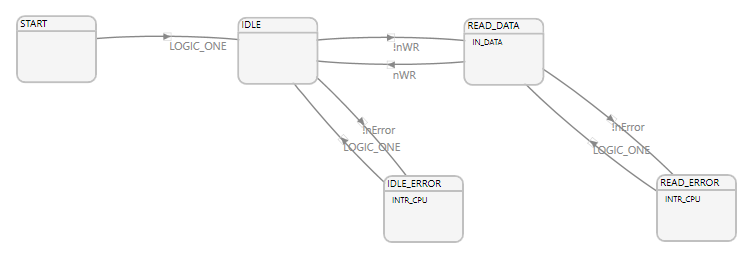
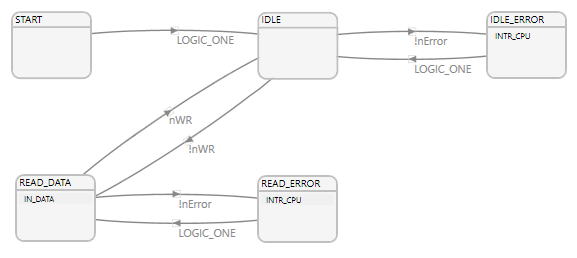
Modified GPIF II state-machine for double buffing of DMA

diff --git a/FX3-Firmware/domesdayDuplicator/domesdayDuplicatorGpif.h b/FX3-Firmware/domesdayDuplicator/domesdayDuplicatorGpif.h
@@ -1,6 +1,6 @@
 /*
  * Project Name: DomesdayDuplicator.cyfx
- * Time : 12/03/2017 08:53:38
+ * Time : 12/03/2017 12:20:00
  * Device Type: FX3
  * Project Type: GPIF2
  *
@@ -28,9 +28,9 @@
  */
 #define START 0
 #define IDLE 1
-#define READ_DATA 2
+#define IDLE_ERROR 2
+#define READ_DATA 3
 #define READ_ERROR 4
-#define IDLE_ERROR 3
 
 
 /* Summary
@@ -43,7 +43,7 @@
    Transition function values used in the state machine.
  */
 uint16_t CyFxGpifTransition[]  = {
-    0x0000, 0x5555, 0xAAAA, 0xFFFF, 0x3333
+    0x0000, 0xFFFF, 0x3333, 0x5555, 0xAAAA
 };
 
 /* Summary
@@ -53,25 +53,25 @@ uint16_t CyFxGpifTransition[]  = {
    waveform table. 
  */
 CyU3PGpifWaveData CyFxGpifWavedata[]  = {
-    {{0x1E708001,0x00000108,0x80000000},{0x00000000,0x00000000,0x00000000}},
-    {{0x2E708002,0x20000008,0x80000000},{0x3E739C03,0x00000000,0xC0000100}},
-    {{0x1E708001,0x00000108,0x80000000},{0x3E739C04,0x00000100,0xC0000100}},
-    {{0x2E708002,0x20000008,0x80000000},{0x00000000,0x00000000,0x00000000}}
+    {{0x3E700401,0x00010004,0x80000000},{0x00000000,0x00000000,0x00000000}},
+    {{0x1E739C02,0x00000000,0xC0000100},{0x2E708003,0x20000008,0x80000000}},
+    {{0x1E739C04,0x00000100,0xC0000100},{0x3E700401,0x00010004,0x80000000}},
+    {{0x2E708003,0x20000008,0x80000000},{0x00000000,0x00000000,0x00000000}}
 };
 
 /* Summary
    Table that maps state indices to the descriptor table indices.
  */
 uint8_t CyFxGpifWavedataPosition[]  = {
-    0,1,2,0,3
+    0,1,0,2,3
 };
 
 /* Summary
    GPIF II configuration register values.
  */
 uint32_t CyFxGpifRegValue[]  = {
-    0x80008300,  /*  CY_U3P_PIB_GPIF_CONFIG */
-    0x00000067,  /*  CY_U3P_PIB_GPIF_BUS_CONFIG */
+    0x80000300,  /*  CY_U3P_PIB_GPIF_CONFIG */
+    0x00000087,  /*  CY_U3P_PIB_GPIF_BUS_CONFIG */
     0x00000000,  /*  CY_U3P_PIB_GPIF_BUS_CONFIG2 */
     0x00000046,  /*  CY_U3P_PIB_GPIF_AD_CONFIG */
     0x00000000,  /*  CY_U3P_PIB_GPIF_STATUS */
@@ -79,9 +79,9 @@ uint32_t CyFxGpifRegValue[]  = {
     0x00000002,  /*  CY_U3P_PIB_GPIF_INTR_MASK */
     0x00000082,  /*  CY_U3P_PIB_GPIF_SERIAL_IN_CONFIG */
     0x00000782,  /*  CY_U3P_PIB_GPIF_SERIAL_OUT_CONFIG */
-    0x00100454,  /*  CY_U3P_PIB_GPIF_CTRL_BUS_DIRECTION */
-    0x0000FFC0,  /*  CY_U3P_PIB_GPIF_CTRL_BUS_DEFAULT */
-    0x0000000C,  /*  CY_U3P_PIB_GPIF_CTRL_BUS_POLARITY */
+    0x00105454,  /*  CY_U3P_PIB_GPIF_CTRL_BUS_DIRECTION */
+    0x0000FF00,  /*  CY_U3P_PIB_GPIF_CTRL_BUS_DEFAULT */
+    0x000000CC,  /*  CY_U3P_PIB_GPIF_CTRL_BUS_POLARITY */
     0x00000000,  /*  CY_U3P_PIB_GPIF_CTRL_BUS_TOGGLE */
     0x00000000,  /*  CY_U3P_PIB_GPIF_CTRL_BUS_SELECT */
     0x00000001,  /*  CY_U3P_PIB_GPIF_CTRL_BUS_SELECT */
@@ -89,8 +89,8 @@ uint32_t CyFxGpifRegValue[]  = {
     0x00000014,  /*  CY_U3P_PIB_GPIF_CTRL_BUS_SELECT */
     0x00000000,  /*  CY_U3P_PIB_GPIF_CTRL_BUS_SELECT */
     0x00000002,  /*  CY_U3P_PIB_GPIF_CTRL_BUS_SELECT */
-    0x00000000,  /*  CY_U3P_PIB_GPIF_CTRL_BUS_SELECT */
-    0x00000000,  /*  CY_U3P_PIB_GPIF_CTRL_BUS_SELECT */
+    0x00000011,  /*  CY_U3P_PIB_GPIF_CTRL_BUS_SELECT */
+    0x00000015,  /*  CY_U3P_PIB_GPIF_CTRL_BUS_SELECT */
     0x00000000,  /*  CY_U3P_PIB_GPIF_CTRL_BUS_SELECT */
     0x00000000,  /*  CY_U3P_PIB_GPIF_CTRL_BUS_SELECT */
     0x00000000,  /*  CY_U3P_PIB_GPIF_CTRL_BUS_SELECT */
